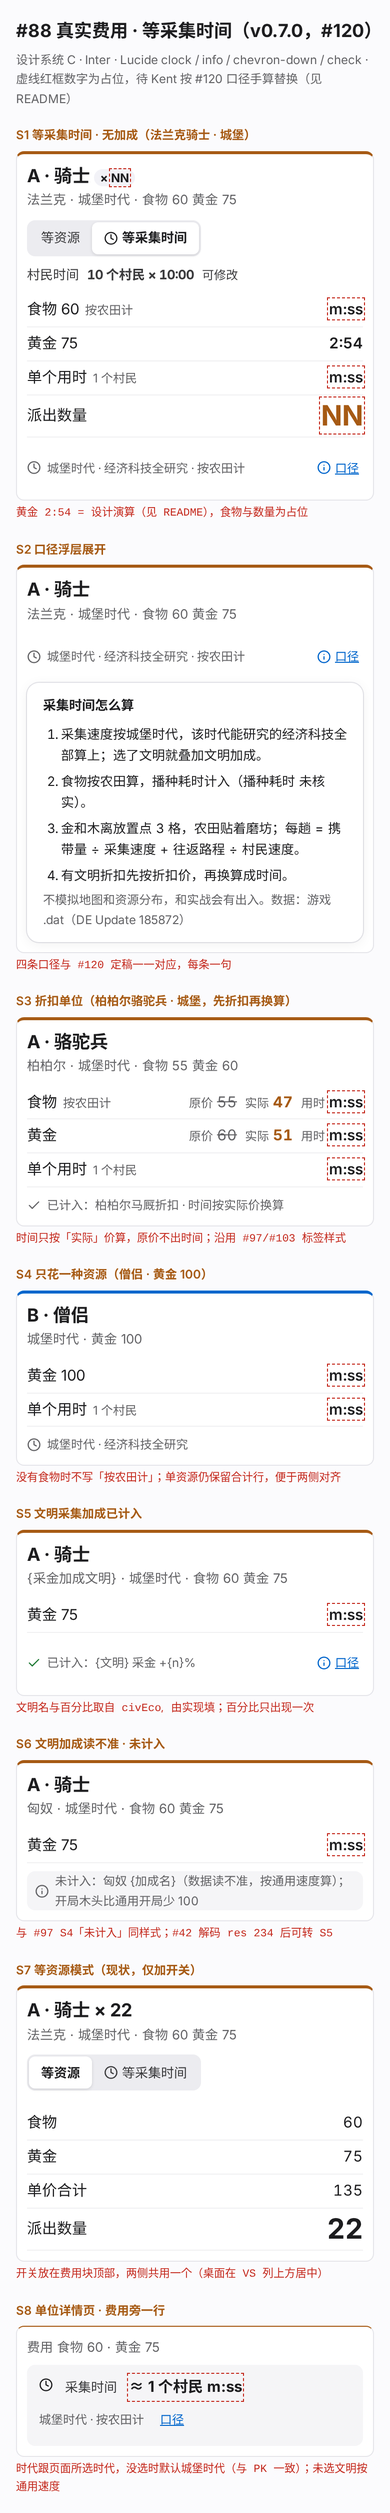
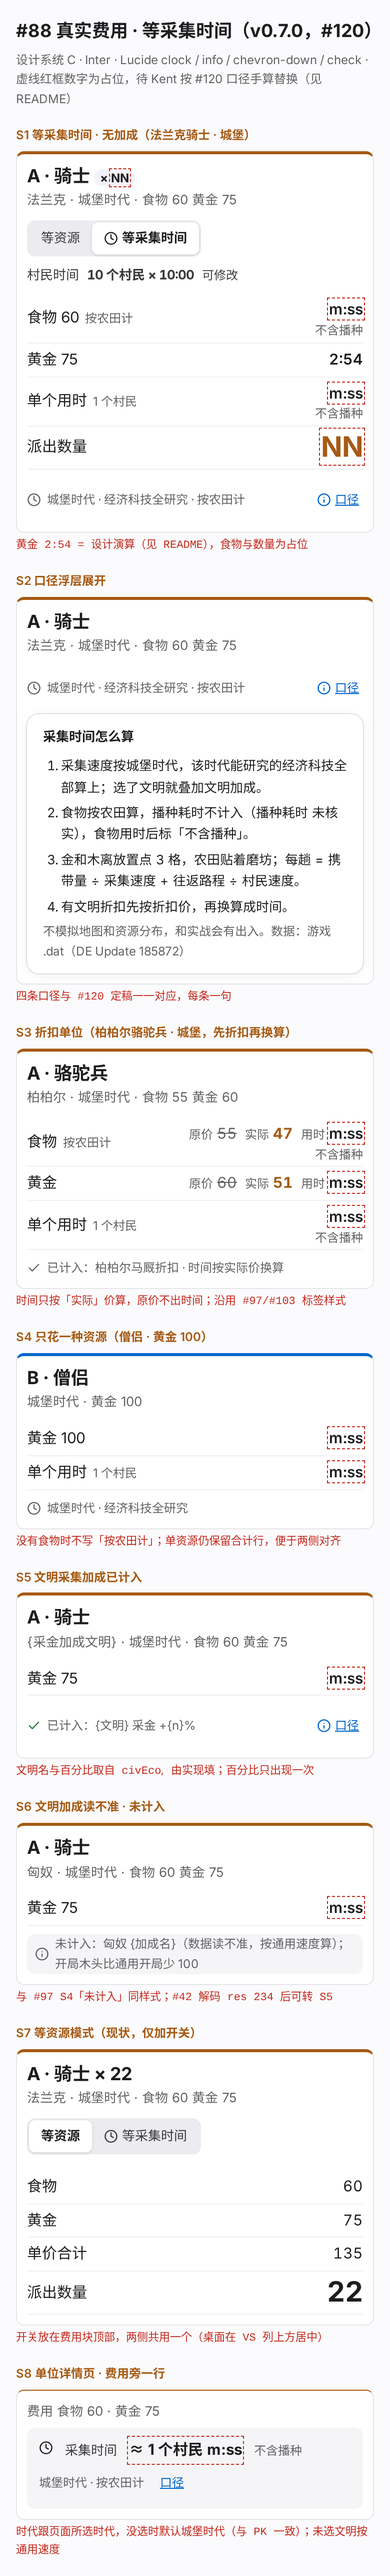
design: #88 稿食物用时加「不含播种」后缀，口径改为播种不计入

diff --git a/docs/design/mockups/issue88-real-cost/mockup.html b/docs/design/mockups/issue88-real-cost/mockup.html
@@ -12,6 +12,7 @@ h3{margin:0;font-size:18px;line-height:1.3}.note{color:var(--color-muted);font-s
 .seg{display:inline-flex;background:var(--color-control);border-radius:8px;padding:2px;margin:8px 0}.seg span{min-height:32px;display:inline-flex;align-items:center;gap:4px;padding:0 12px;border-radius:6px;font-size:13px;color:var(--color-text-2);white-space:nowrap}.seg .on{background:#fff;color:var(--color-text);font-weight:600;box-shadow:0 1px 3px #0000001f}
 table{width:100%;border-collapse:collapse;margin-top:8px}td{padding:4px 0;border-bottom:1px solid var(--color-line);white-space:nowrap}td:last-child{text-align:right;font-variant-numeric:tabular-nums}
 .res{color:var(--color-muted);font-size:12px;margin-left:6px}
+.ns{display:block;color:var(--color-muted);font-size:12px;font-weight:400;line-height:1.3;white-space:nowrap}
 .t{font-weight:600}.big{font-size:28px;font-weight:700;line-height:1.15}.acc{color:var(--color-accent)}
 .ph{outline:1px dashed #c4281c;outline-offset:1px}
 .lbl{font-size:12px;color:var(--color-muted);margin:0 4px 0 8px}.was{color:var(--color-muted)}
@@ -30,9 +31,9 @@ table{width:100%;border-collapse:collapse;margin-top:8px}td{padding:4px 0;border
 <div><span class=seg><span>等资源</span><span class=on><svg class=ic viewBox="0 0 24 24"><circle cx=12 cy=12 r=10 /><path d="M12 6v6l4 2"/></svg>等采集时间</span></span></div>
 <div class=budget>村民时间 <b style="white-space:nowrap">10 个村民 × 10:00</b> <span class=lk style="font-size:12px">可修改</span></div>
 <table>
-<tr><td>食物 60<span class=res>按农田计</span></td><td class=t><span class=ph>m:ss</span></td></tr>
+<tr><td>食物 60<span class=res>按农田计</span></td><td class=t><span class=ph>m:ss</span><span class=ns>不含播种</span></td></tr>
 <tr><td>黄金 75</td><td class=t>2:54</td></tr>
-<tr><td>单个用时<span class=res>1 个村民</span></td><td class=t><span class=ph>m:ss</span></td></tr>
+<tr><td>单个用时<span class=res>1 个村民</span></td><td class=t><span class=ph>m:ss</span><span class=ns>不含播种</span></td></tr>
 <tr><td>派出数量</td><td><span class="big acc ph">NN</span></td></tr>
 </table>
 <div class=basis><svg class=ic viewBox="0 0 24 24"><circle cx=12 cy=12 r=10 /><path d="M12 6v6l4 2"/></svg><span>城堡时代 · 经济科技全研究 · 按农田计</span><span class=lk><svg class=ic viewBox="0 0 24 24"><circle cx=12 cy=12 r=10 /><path d="M12 16v-4M12 8h.01"/></svg>口径</span></div>
@@ -43,7 +44,7 @@ table{width:100%;border-collapse:collapse;margin-top:8px}td{padding:4px 0;border
 <div class=basis><svg class=ic viewBox="0 0 24 24"><circle cx=12 cy=12 r=10 /><path d="M12 6v6l4 2"/></svg><span>城堡时代 · 经济科技全研究 · 按农田计</span><span class=lk><svg class=ic viewBox="0 0 24 24"><circle cx=12 cy=12 r=10 /><path d="M12 16v-4M12 8h.01"/></svg>口径</span></div>
 <div class=pop><h4>采集时间怎么算</h4><ol>
 <li>采集速度按城堡时代，该时代能研究的经济科技全部算上；选了文明就叠加文明加成。</li>
-<li>食物按农田算，播种耗时计入（播种耗时 未核实）。</li>
+<li>食物按农田算，播种耗时不计入（播种耗时 未核实），食物用时后标「不含播种」。</li>
 <li>金和木离放置点 3 格，农田贴着磨坊；每趟 = 携带量 ÷ 采集速度 + 往返路程 ÷ 村民速度。</li>
 <li>有文明折扣先按折扣价，再换算成时间。</li></ol>
 <small>不模拟地图和资源分布，和实战会有出入。数据：游戏 .dat（DE Update 185872）</small></div>
@@ -52,9 +53,9 @@ table{width:100%;border-collapse:collapse;margin-top:8px}td{padding:4px 0;border
 <div><p class=st>S3 折扣单位（柏柏尔骆驼兵 · 城堡，先折扣再换算）</p><div class=side>
 <h3>A · 骆驼兵</h3><span class=note>柏柏尔 · 城堡时代 · 食物 55 黄金 60</span>
 <table>
-<tr><td>食物<span class=res>按农田计</span></td><td><span class=lbl>原价</span><s class=was>55</s><span class=lbl>实际</span><b class=acc>47</b><span class=lbl>用时</span><span class="t ph">m:ss</span></td></tr>
+<tr><td>食物<span class=res>按农田计</span></td><td><span class=lbl>原价</span><s class=was>55</s><span class=lbl>实际</span><b class=acc>47</b><span class=lbl>用时</span><span class="t ph">m:ss</span><span class=ns>不含播种</span></td></tr>
 <tr><td>黄金</td><td><span class=lbl>原价</span><s class=was>60</s><span class=lbl>实际</span><b class=acc>51</b><span class=lbl>用时</span><span class="t ph">m:ss</span></td></tr>
-<tr><td>单个用时<span class=res>1 个村民</span></td><td class=t><span class=ph>m:ss</span></td></tr>
+<tr><td>单个用时<span class=res>1 个村民</span></td><td class=t><span class=ph>m:ss</span><span class=ns>不含播种</span></td></tr>
 </table>
 <div class=basis><svg class=ic viewBox="0 0 24 24"><path d="M20 6 9 17l-5-5"/></svg><span>已计入：柏柏尔马厩折扣 · 时间按实际价换算</span></div>
 </div><div class=anno>时间只按「实际」价算，原价不出时间；沿用 #97/#103 标签样式</div></div>
@@ -85,7 +86,7 @@ table{width:100%;border-collapse:collapse;margin-top:8px}td{padding:4px 0;border
 
 <div><p class=st>S8 单位详情页 · 费用旁一行</p><div class=side style="border-top-width:1px">
 <p class=note style="margin:0 0 6px">费用 食物 60 · 黄金 75</p>
-<div class=uline><svg class=ic viewBox="0 0 24 24"><circle cx=12 cy=12 r=10 /><path d="M12 6v6l4 2"/></svg><span class=k>采集时间</span><b class="ph" style="white-space:nowrap">≈ 1 个村民 m:ss</b><span class=res style="margin:0">城堡时代 · 按农田计</span><span class=basis style="margin:0"><span class=lk style="min-height:32px">口径</span></span></div>
+<div class=uline><svg class=ic viewBox="0 0 24 24"><circle cx=12 cy=12 r=10 /><path d="M12 6v6l4 2"/></svg><span class=k>采集时间</span><b class="ph" style="white-space:nowrap">≈ 1 个村民 m:ss</b><span class=res style="margin:0;white-space:nowrap">不含播种</span><span class=res style="margin:0">城堡时代 · 按农田计</span><span class=basis style="margin:0"><span class=lk style="min-height:32px">口径</span></span></div>
 </div><div class=anno>时代跟页面所选时代，没选时默认城堡时代（与 PK 一致）；未选文明按通用速度</div></div>
 
 </div>

diff --git a/docs/design/mockups/issue88-real-cost/README.md b/docs/design/mockups/issue88-real-cost/README.md
@@ -23,13 +23,18 @@
 - 口径行：`clock` 图标 +「{时代} · 经济科技全研究 · 按农田计」，右侧链接「口径」（Lucide `info` 图标，点击区域 44px 高）。
 - 口径浮层，标题「采集时间怎么算」：
   1. 采集速度按{时代}，该时代能研究的经济科技全部算上；选了文明就叠加文明加成。
-  2. 食物按农田算，播种耗时计入。
+  2. 食物按农田算，播种耗时不计入（播种耗时 未核实）。
   3. 金和木离放置点 3 格，农田贴着磨坊；每趟 = 携带量 ÷ 采集速度 + 往返路程 ÷ 村民速度。
   4. 有文明折扣先按折扣价，再换算成时间。
   - 浮层底部小字：「不模拟地图和资源分布，和实战会有出入。数据：游戏 .dat（DE Update 185872）」
 - 已计入：「已计入：{文明} 采金 +{n}%」，百分比只写一次。
 - 未计入：「未计入：{文明} {加成名}（数据读不准，按通用速度算）」。
 - 时间一律写成 `m:ss`，满 1 小时写 `h:mm:ss`；负号一律用 U+2212「−」。
+
+## 「不含播种」后缀（Kent 断言）
+- 凡是含食物的用时（S1、S3 的食物行和「单个用时」合计行，S8 单位页那一行），时间后面都跟 muted 小字「不含播种」：12px，`--color-muted` #636366（白底 5.9:1，AA）。S4–S6 不含食物，不出现。
+- PK 表格里后缀单独占一行（`display:block`，右对齐在时间下面），单位页行里是跟在时间后的独立片段，可以换到下一行；时间数字本身 `nowrap`，360/375/390/1280 四档都不会折断。
+- 断言：有食物时页面出现「不含播种」，且不出现播种耗时的具体数字；纯黄金单位不出现「不含播种」。
 
 ## 尺寸、颜色和 token
 - 开关：底色 `--color-control` #ececf0，槽内边距 2px，每段高 32px，13px 字。选中段白底 600 加粗 `--color-text`；未选段用 `--color-text-2` #3a3a3c（在 #ececf0 上 9.8:1）。
